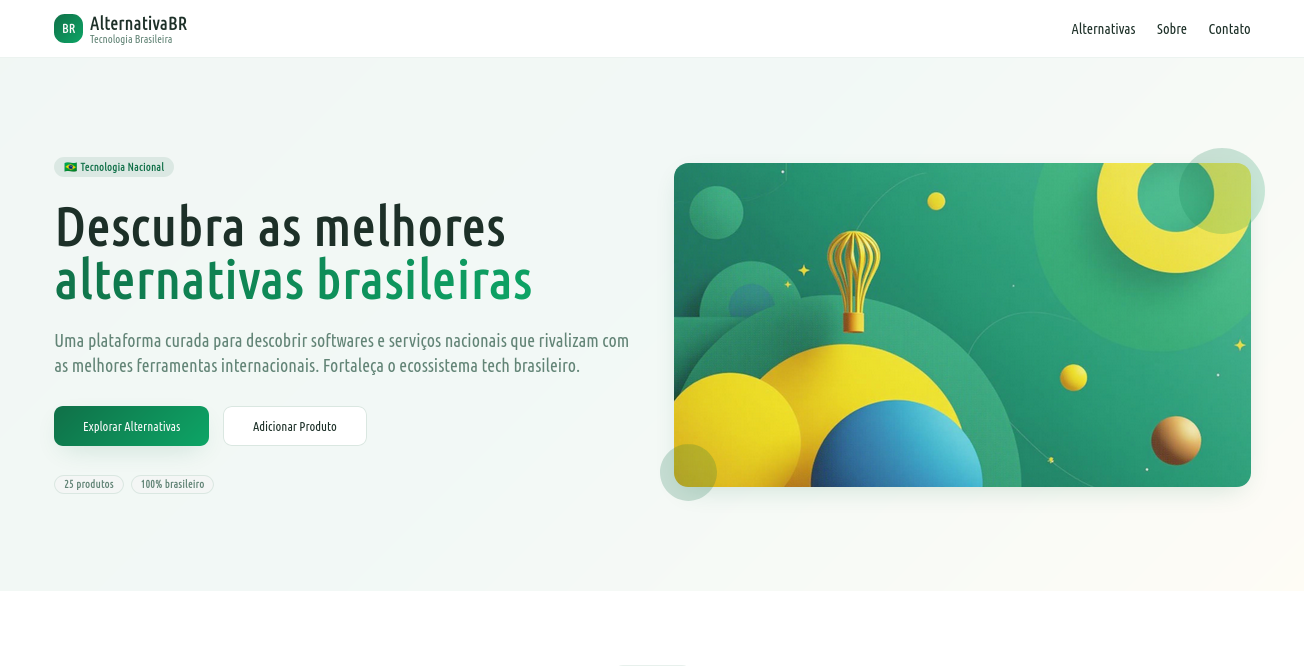
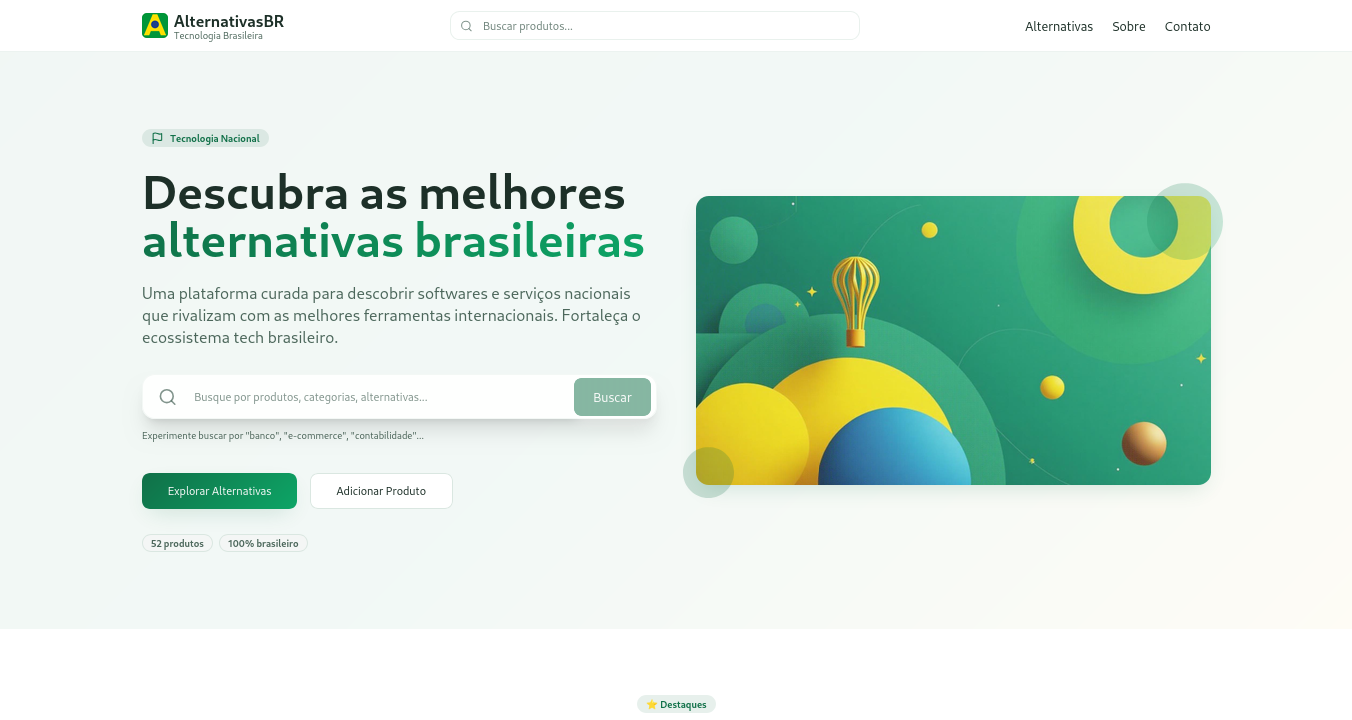
Atualização de links e imagens

diff --git a/src/data/projects.ts b/src/data/projects.ts
@@ -16,7 +16,7 @@ export const projects: Project[] = [
       "Plataforma curada para descobrir softwares e serviços nacionais que rivalizam com as melhores ferramentas internacionais. Fortalece o ecossistema tech brasileiro com catálogo de 25+ produtos 100% brasileiros.",
     techStack: ["Next.js", "React", "TypeScript", "Tailwind CSS", "Vercel"],
     githubUrl: "https://github.com/rilsonjoas/alternativas-br",
-    liveUrl: "https://alternativas-br.vercel.app/",
+    liveUrl: "https://www.alternativasbr.com.br/",
     image: "/alternativas.png",
   },
   {
@@ -63,7 +63,7 @@ export const projects: Project[] = [
       "Questionário político que tenta atribuir porcentagens para oito valores políticos diferentes e gerar resultados (com imagens).",
     techStack: ["Next.js", "React", "TypeScript", "Tailwind CSS", "Shadcn/UI"],
     githubUrl: "https://github.com/rilsonjoas/TestePolitico",
-    liveUrl: "https://teste-politico.vercel.app/",
+    liveUrl: "https://www.testepolitico.com.br/",
     image: "/Teste Político 8 Valores.png",
   },
   {

diff --git a/index.html b/index.html
@@ -23,7 +23,7 @@
     <meta property="og:title" content="Portfolio - Rilson Joás" />
     <meta property="og:description" content="Portfolio pessoal de desenvolvimento, projetos, tecnologia e ciência de dados." />
     <meta property="og:type" content="website" />
-    <meta property="og:url" content="https://www.rilsonjoas.com.br" />
+    <meta property="og:url" content="https://portfolio-rilson.vercel.app/" />
     <meta property="og:image" content="/rilson.jpg" />
 
     <!-- Twitter -->